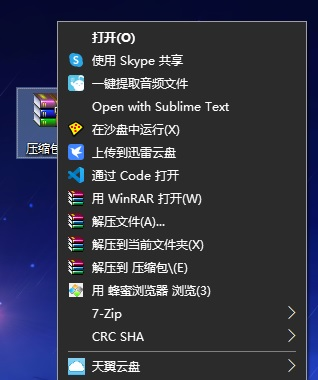
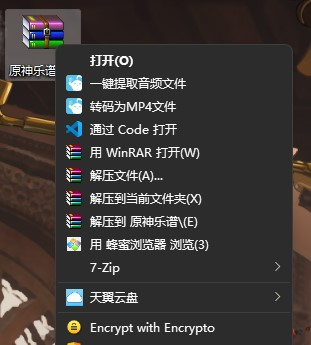
change img and default unzip action

diff --git a/index.html b/index.html
@@ -15,85 +15,37 @@
         <div id="hide-title">这是一些隐藏信息</div>
         <div id="hide-text">
             <p class="text para">
-                这是一些关于此网页的隐藏信息，也是一些碎碎念，
-                也是我编写此网页的无奈。
-                通过反复点击网页最下方的语句大于10次即可打开。
+                这是一些关于此网页的隐藏信息，也是一些碎碎念，也是我编写此网页的无奈。通过反复点击网页最下方的语句大于10次即可打开。
             </p>
             <p class="text para">
-                压缩包，最常见的文件格式，每个利用计算机工作的人
-                一定会接触，一定需要学会，也一定无法逃避的格式。
-                21世纪，学生时代，我们一定会或多或少地接触到电子教学设备。
-                对于有过义务教育和高中教育学历的人，
-                我不相信，有人没见过别人如何解压压缩包。
-                或者说，我没见过一个拥有完整义务教育经历的人，没听说过压缩包。
+                压缩包，最常见的文件格式，每个利用计算机工作的人一定会接触，一定需要学会，也一定无法逃避的格式。21世纪，学生时代，我们一定会或多或少地接触到电子教学设备。对于有过义务教育和高中教育学历的人，我不相信，有人没见过别人如何解压压缩包。或者说，我没见过一个拥有完整义务教育经历的人，没听说过压缩包。
             </p>
             <p class="text para">
-                就算小学没有计算机，那么初中，高中，老师或多或少都会
-                使用电子教学设备。
-                为什么有些《大学计算机基础》考试不考windows操作？因为太简单，
-                几乎所有人都会。
+                就算小学没有计算机，那么初中，高中，老师或多或少都会使用电子教学设备。
+                为什么有些《大学计算机基础》考试不考windows操作？因为太简单，几乎所有人都会。
             </p>
             <p class="text para">
-                就算小学没有机房，这些技能都是通过观察别人操作来自学的。还有
-                通过百度，搜索都能得到压缩包教程。21世纪，信息获取如此简单，
-                我们需要的，只有<strong>“耐心”</strong>。
-                只要我们肯去认真阅读那几百字，甚至几十字的教程，
-                压缩包的解压和压缩都能轻松学会。这本就非常简单。
-                信息时代，小学没有计算机，初中没有计算机，都是借口。
+                就算小学没有机房，这些技能都是通过观察别人操作来自学的。还有通过百度，搜索都能得到压缩包教程。21世纪，信息获取如此简单，我们需要的，只有<strong>“耐心”</strong>。只要我们肯去认真阅读那几百字，甚至几十字的教程，压缩包的解压和压缩都能轻松学会。这本就非常简单。信息时代，小学没有计算机，初中没有计算机，都是借口。
+            <p class="text para">
+                为什么我有底气这么说？因为我看到过太多人，<strong>起床第一件事便打开游戏，每天花费数十小时在游戏、电竞、毫无营养的短视频上，直到深夜。</strong>他们宁可进化成能够穿越入电竞世界的电竞英雄，传送到无营养短视频世界里娱乐至死，也不愿意<strong>拿出几分钟的时间去搜索信息，学点信息时代生存技能。</strong>现在，哪怕用手机的语音助手，问一句“压缩包咋解压啊”，都能得到非常多有用的信息。在这个学习计算机知识如此简单的时代，拿小学、初中没接触过计算机来当挡箭牌，是展现自己<strong>不想学、不会学、不能学、学不进</strong>的反向操作。
             </p>
             <p class="text para">
-                为什么我有底气这么说？因为我看到过太多人，
-                <strong>起床第一件事便打开游戏，每天花费数十小时在游戏、
-                电竞、毫无营养的短视频上，直到深夜。</strong>
-                他们宁可进化成能够穿越入电竞世界的电竞英雄，
-                传送到无营养短视频世界里娱乐至死，
-                也不愿意<strong>拿出几分钟的时间去搜索信息，学点信息时代生存技能。</strong>
-                现在，哪怕用手机的语音助手，问一句“压缩包咋解压啊”，
-                都能得到非常多有用的信息。
-                在这个学习计算机知识如此简单的时代，拿小学、初中没接触过计算机来当挡箭牌，
-                是展现自己<strong>不想学、不会学、不能学、学不进</strong>的反向操作。
+                这是单纯的无法在现代信息社会获取信息，信息爆炸时代，如果你只会用某音，某手，来获取哪怕随手一搜索就能得到的信息，如果面对打开的电脑，只会打开游戏，而且，如果连游戏打不开，游戏出bug都不会去网上查找信息，不会主动深入了解问题，甚至，连去百度上搜索相关错误信息都不会，而是只会<strong>玩</strong>，那么你应该立即深刻反思：
             </p>
             <p class="text para">
-                这是单纯的无法在现代信息社会获取信息，
-                信息爆炸时代，如果你只会用某音，某手，
-                来获取哪怕随手一搜索就能得到的信息，
-                如果面对打开的电脑，只会打开游戏，而且，
-                如果连游戏打不开，游戏出bug都不会
-                去网上查找信息，不会主动深入了解问题，
-                甚至，连去百度上搜索相关错误信息都不会，
-                而是只会<strong>玩</strong>，
-                那么你应该立即深刻反思：
+                <strong>我是不是已经无法正常获取文字信息了？</strong>我是不是只能依赖无营养短视频的声、光、电刺激，才能进行哪怕解压压缩包这么<strong>最基本的学习？</strong>
             </p>
             <p class="text para">
-                <strong>我是不是已经无法正常获取文字信息了？</strong>
-                我是不是只能依赖无营养短视频的声、光、电刺激，
-                才能进行哪怕解压压缩包这么<strong>最基本的学习？</strong>
+                我是不是已经成为游戏的一部分，我离不开游戏，<strong>我不是玩游戏，我在被游戏玩？</strong>我是不是把游戏带到现实世界，在现实世界里迷失自我，坐到电脑前，我<strong>只会玩游戏？</strong>我是不是因为游戏失去了太多，失去了学习能力，失去了学习态度，失去了在这个现代社会生活的基本技能？
             </p>
             <p class="text para">
-                我是不是已经成为游戏的一部分，我离不开游戏，
-                <strong>我不是玩游戏，我在被游戏玩？</strong>
-                我是不是把游戏带到现实世界，在现实世界里迷失自我，
-                坐到电脑前，我<strong>只会玩游戏？</strong>
-                我是不是因为游戏失去了太多，失去了学习能力，失去了学习态度，
-                失去了在这个现代社会生活的基本技能？
+                这篇隐藏文章的目的并不是指责和批评那些人，而是警告，因为将来工作，一定会接触到计算机。绝大多数工作已经离不开计算机。<strong>年终总结，工作报告，真的会接触压缩包，事实胜于雄辩。</strong>可是，这是基础技能，公司，单位都不会进行培训。甚至如 Word 中调节行间距，都不会进行培训，都是默认掌握。
             </p>
             <p class="text para">
-                这篇隐藏文章的目的并不是指责和批评那些人，而是警告，
-                因为将来工作，一定会接触到计算机。绝大多数工作已经离不开计算机。
-                <strong>年终总结，工作报告，真的会接触压缩包，事实胜于雄辩。</strong>
-                可是，这是基础技能，公司，单位都不会进行培训。
-                甚至如 Word 中调节行间距，都不会进行培训，都是默认掌握。
+                计算机二级考试，国家级别的考试，甚至压缩包也不是重点。这是因为这<strong>太简单了</strong>，没必要考。即使我们不从事计算机，不研究计算机，但我们不能不工作，不能不参与数字工作，不能离开计算机，因此，<strong>不能不会压缩包操作</strong>。
             </p>
             <p class="text para">
-                计算机二级考试，国家级别的考试，甚至压缩包也不是重点。
-                这是因为这<strong>太简单了</strong>，
-                没必要考。即使我们不从事计算机，不研究计算机，
-                但我们不能不工作，不能不参与数字工作，
-                不能离开计算机，因此，<strong>不能不会压缩包操作</strong>。
-            </p>
-            <p class="text para">
-                希望那些不知所措，甚至推卸责任的人尽快清醒过来，
-                掌握这门简单，但受用一生的基础技能。
+                希望那些不知所措，甚至推卸责任的人尽快清醒过来，掌握这门简单，但受用一生的基础技能。
             </p>
         </div>
         <button id="hide-hide" onclick="hideHidden()">关闭</button>
@@ -118,8 +70,7 @@
             <span class="code">.rar</span>
             <span class="code">.zip</span>
             <span class="code">.7z</span>
-            等扩展名结尾。这些文件的图标，在不同电脑上会呈现不同的样子。
-            在有的电脑上，压缩包甚至会没有图标，而是以一个未知文件的身份存在。
+            等扩展名结尾。这些文件的图标，在不同电脑上会呈现不同的样子。在有的电脑上，压缩包甚至会没有图标，而是以一个未知文件的身份存在。
         </p>
         <p class="text para">
             <strong>原则上</strong>，压缩包拥有这样的图标：
@@ -138,63 +89,50 @@
         </p>
         <img src="image/rarfile2.png" alt="" class="image">
         <p class="text para">
-            以上的文件，都是压缩包。只不过，有的电脑可能无法打开压缩包，
-            这主要是因为<strong>没有安装解压软件</strong>导致的。
-            此问题在文末有详细的解释。
+            以上的文件，都是压缩包。只不过，有的电脑可能无法打开压缩包，这主要是因为<strong>没有安装解压软件</strong>导致的。此问题在文末有详细的解释。
         </p>
         <p class="text para">
-            无论是否能够显示压缩包的图标，
-            这些文件一般不直接打开，如果直接双击，
-            可能会使用系统默认的压缩管理软件打开。
-            尽管打开后，和平时看到的文件夹一样，
-            但里面的<strong>软件通常无法直接双击运行</strong>。
+            无论是否能够显示压缩包的图标，这些文件一般不直接打开，如果直接双击，可能会使用系统默认的压缩管理软件打开。尽管打开后，和平时看到的文件夹一样，但里面的<strong>软件通常无法直接双击运行</strong>。
         </p>
         <p class="text para">
             正确处理这类压缩包的方法，是使用右键点击，并<strong>解压压缩包</strong>。
         </p>
 
         <h2>解压一个压缩包</h2>
-        <p class="text">首先这是一个压缩包</p>
+        <p class="text">首先这是一个压缩包，以“原神乐谱.rar”为例</p>
         <img src="image/2.jpg" alt="" class="image">
         <p class="text">用鼠标在上面右键点击</p>
         <img src="image/3.jpg" alt="" class="image">
-        <p class="text">选择“解压到当前文件夹”</p>
+        <p class="text">选择“解压到 原神乐谱\”</p>
+        <p class="text note">注：根据压缩包名字的不同，此选项中“原神乐谱”部分会不一样。</p>
         <img src="image/4.jpg" alt="" class="image">
+        <p class="text">这将在压缩包旁边生成一个文件夹，名为“原神乐谱”，打开就有了。</p>
         <p class="text note">
-            注：如果压缩包内文件过多，
-            也可选择“解压到 压缩包”选项。
-            (解压到当前文件夹下面的那个)
-            根据压缩包名称的不同，此选项名称不同。
+            注：如果确定压缩包内文件较少，可以使用“解压到当前文件夹”选项。此选项会把压缩包内所有的文件直接拷贝到当前文件夹。
         </p>
-
-        <h2>查看结果</h2>
-        <p class="text">操作完成后，会出现压缩包内的文件，
-            或者出现一个文件夹。解压完成。</p>
 
         <h2>如果右键没有解压</h2>
         <p class="text para">
-            在某些电脑，特别是新买的，新装过系统的电脑上，
-            右键菜单内可能没有任何与解压有关的选项。
-            因为解压软件并不附带在 <span class="code">Windows</span> 操作系统上。
+            在某些电脑，特别是新买的，新装过系统的电脑上，右键菜单内可能没有任何与解压有关的选项。因为解压软件并不附带在 <span class="code">Windows</span> 操作系统上。
         </p>
         <p class="text para">
-            如果遇到这种情况，需要先
-            <strong>安装一个解压软件。</strong>
-            推荐首选开源、免费的软件，并从官方网站下载，
-            或者从受信任的各类大型软件商店、软件管家内下载。
+            如果遇到这种情况，需要先<strong>安装一个解压软件。</strong>推荐首选开源、免费的软件，并从官方网站下载，或者从受信任的各类大型软件商店、软件管家内下载。
         </p>
 
         <h2>如何自己打包一个压缩包</h2>
         <p class="text para">
-            既然已经学会了解压压缩包，那么这些压缩包是怎么来的？
-            这是由其他用户通过打包压缩包得到的。打包教程在此不做赘述，
-            读者可右键一个文件夹，自行探索出现的菜单选项。
+            既然已经学会了解压压缩包，那么这些压缩包是怎么来的？这是由其他用户通过打包压缩包得到的。打包教程在此不做赘述，读者可右键一个文件夹，自行探索出现的菜单选项。
+        </p>
+
+        <h2>求生说明</h2>
+        <p class="text para">
+            本人拥有完整的义务教育学历，并拥有更高的学习经历，对自己所说、所写的内容已充分理解并明确其含义，并有能力充分理解所说所写所能够造成的后果。
         </p>
 
         <h2>附带链接</h2>
-        <a href="https://www.7-zip.org/" target="_blank">7-Zip 解压软件官网</a>
-        <br> <br>
         <a href="https://www.bandisoft.com/bandizip/" target="_blank">Bandizip 解压软件官网</a>
+        <br> <br>
+        <a href="https://www.7-zip.org/" target="_blank">7-Zip 解压软件官网</a>
         <div id="blank"></div>
         <div id="eof"> - EOF - </div>
         <div id="witch" title="I'm tired of teaching how to unzip a zip file. What about you?">

diff --git a/main.js b/main.js
@@ -88,10 +88,12 @@ function continualUpdateImage() {
         }
         let height = document.documentElement.clientHeight;
         let width = document.documentElement.clientWidth;
-        if (height > width && now !== 'h>v') {
+        let ratio = width / height;
+        let crit = 1.3;
+        if (ratio < crit && now !== 'h>v') {
             now = 'h>v'
             changeImage('/image/banner-v.jpg');
-        } else if (height < width && now !== 'h<v') {
+        } else if (ratio >= crit && now !== 'h<v') {
             now = 'h<v';
             changeImage('/image/banner-h.jpg');
         }
